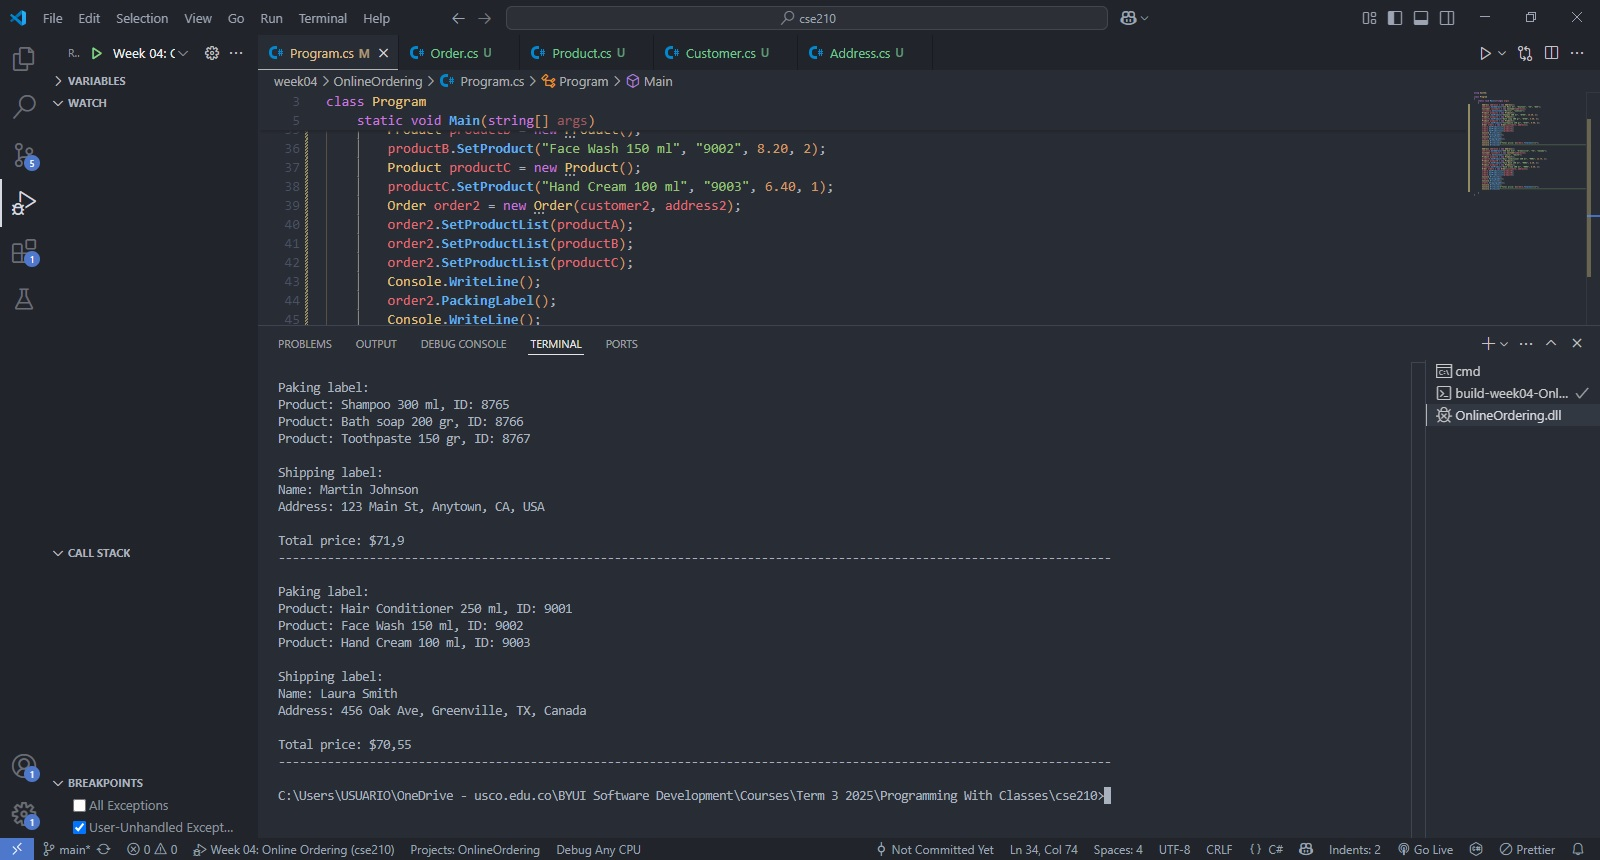
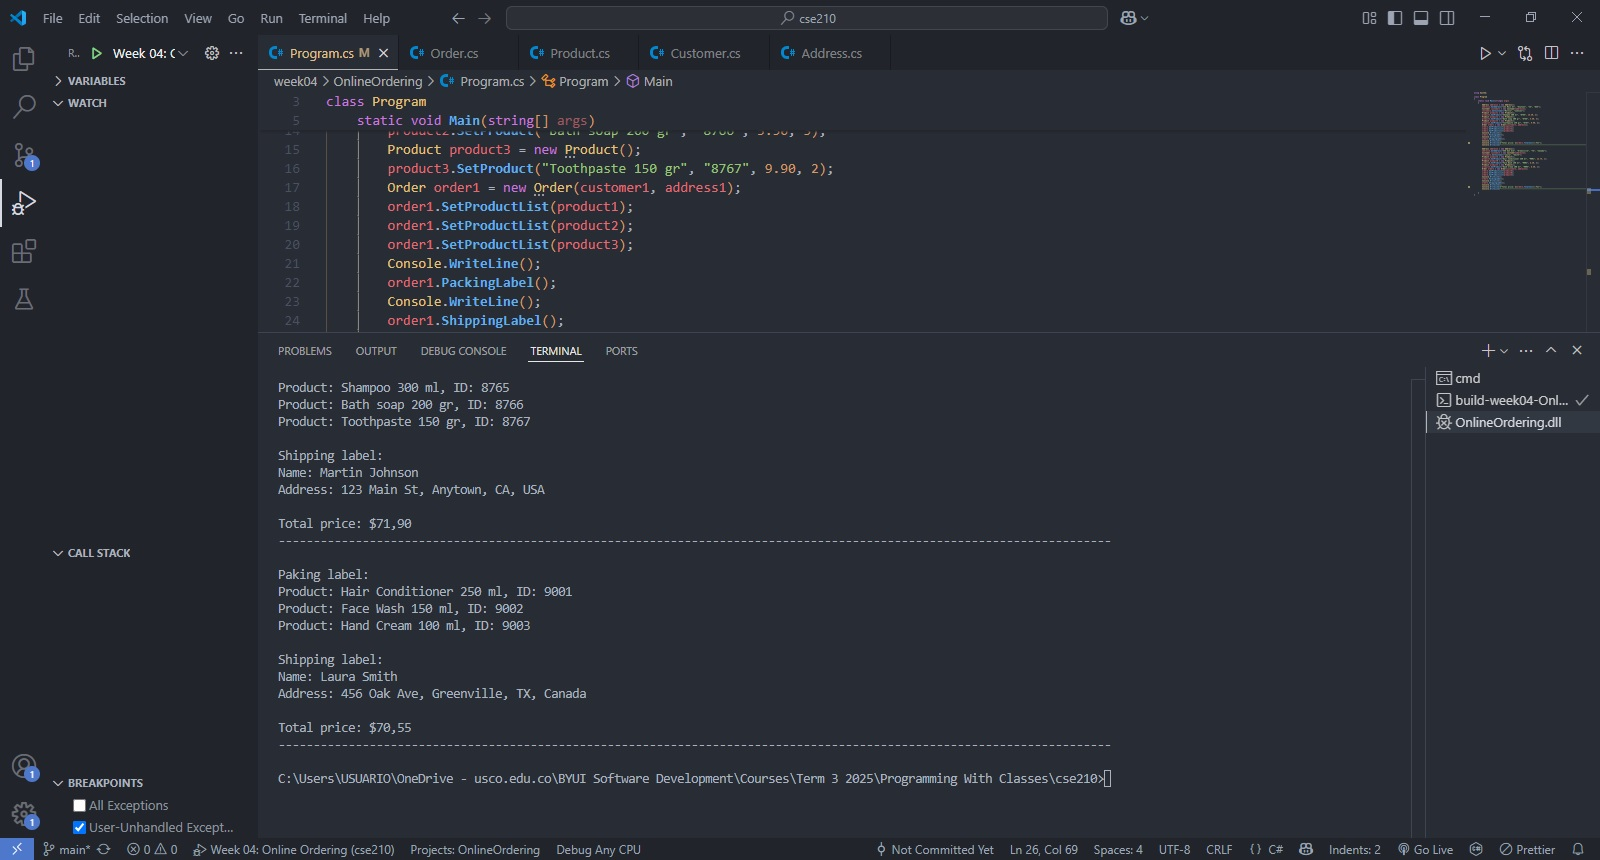
Price format correction

diff --git a/week04/OnlineOrdering/Program.cs b/week04/OnlineOrdering/Program.cs
@@ -23,7 +23,7 @@ class Program
         Console.WriteLine();
         order1.ShippingLabel();
         Console.WriteLine();
-        Console.WriteLine($"Total price: ${order1.TotalCost()}");
+        Console.WriteLine($"Total price: ${order1.TotalCost():F2}");
         Console.WriteLine("-----------------------------------------------------------------------------------------------------------------------");
 
         Address address2 = new Address();
@@ -45,7 +45,7 @@ class Program
         Console.WriteLine();
         order2.ShippingLabel();
         Console.WriteLine();
-        Console.WriteLine($"Total price: ${order2.TotalCost()}");
+        Console.WriteLine($"Total price: ${order2.TotalCost():F2}");
         Console.WriteLine("-----------------------------------------------------------------------------------------------------------------------");
 
     }
